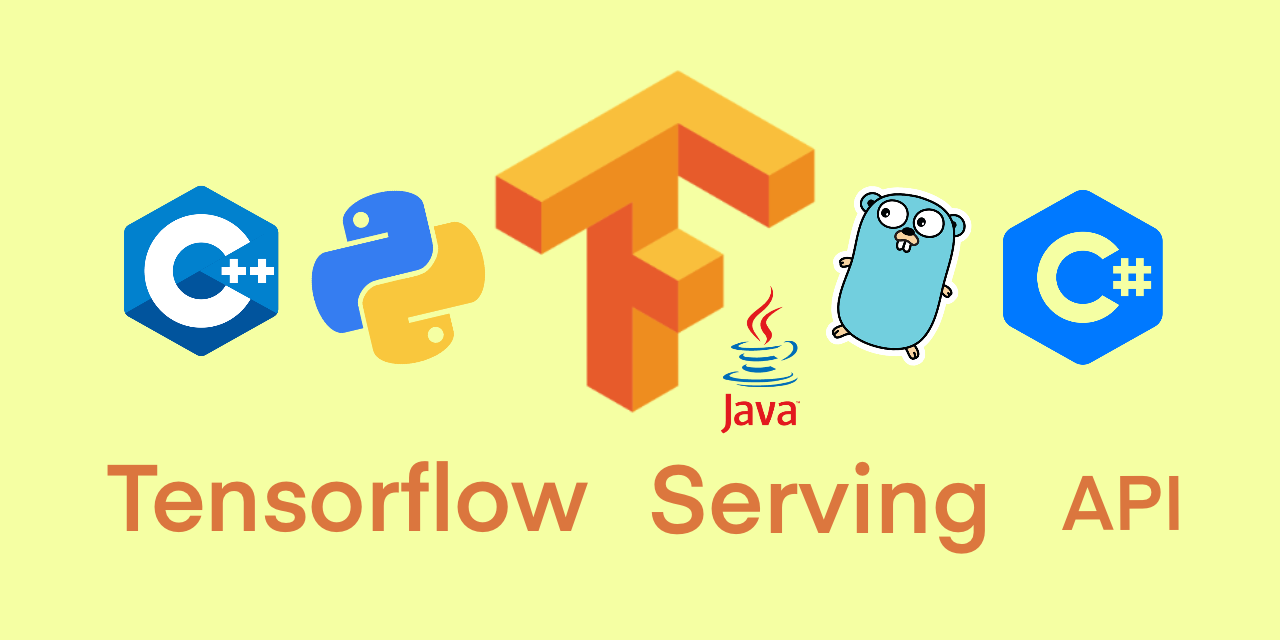
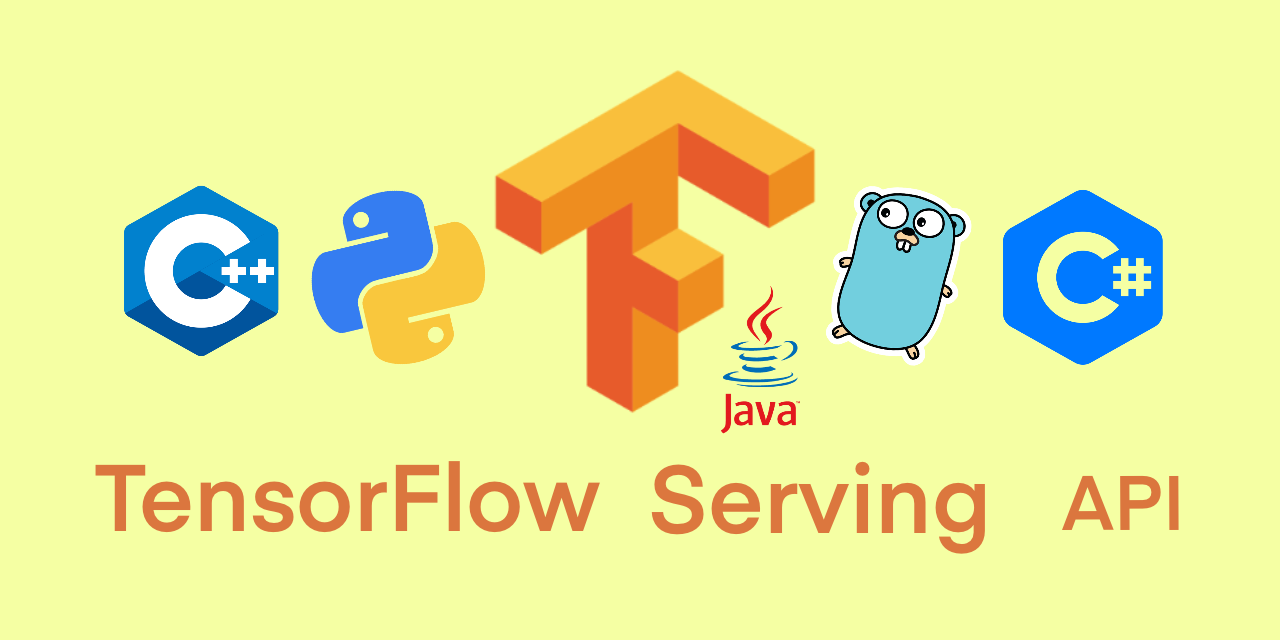
modify some details

Changed region(s): [[0.0625, 0.7188, 0.4688, 0.8438]]

diff --git a/java/src/main/java/com/github/alex/App.java b/java/src/main/java/com/github/alex/App.java
@@ -2,6 +2,7 @@
  * This Java source file was generated by the Gradle 'init' task.
  */
 package com.github.alex;
+
 import java.util.Arrays;
 import java.util.concurrent.TimeUnit;
 import com.google.protobuf.Int64Value;

diff --git a/golang/main.go b/golang/main.go
@@ -14,7 +14,7 @@ import (
 )
 
 var (
-	// Tensorflow serving grpc address.
+	// TensorFlow Serving grpc address.
 	address = "127.0.0.1:8500"
 )
 

diff --git a/golang/README.md b/golang/README.md
@@ -3,7 +3,7 @@
         width="150" height="200">
 </div>
 
-# Tensorflow Serving API for Golang
+# TensorFlow Serving API for Golang
 
 ## Prerequisites
 
@@ -150,7 +150,7 @@ Also you can use the `gen.sh` script to generate go files.
 
 3. If you encouter following `cycle import` error, you should delete the `logging.pb.go` file in `tensorflow_serving/core` dir and `prediction_log.pb.go` file in `tensorflow_serving/apis` dir.
 
-   ```shell
+    ```shell
     import cycle not allowed
     package github.com/alex/tensorflow-serving-api-go
         imports tensorflow_serving/apis

diff --git a/README.md b/README.md
@@ -2,7 +2,7 @@
     <img src="https://raw.githubusercontent.com/AlexanderJLiu/tensorflow-serving-api/master/images/tensorflow-serving-api.png">
 </div>
 
-# Tensorflow Serving API
+# TensorFlow Serving API
 
 The goal of this project is to generate `tensorflow serving api` for various programming language supported by [protocol buffer](https://developers.google.com/protocol-buffers/docs/tutorials) and [grpc](https://grpc.io/docs/languages/), like `go`, `java`, `c++`, `c#` and `python` etc.
 

diff --git a/python/README.md b/python/README.md
@@ -3,7 +3,7 @@
         width="200" height="200">
 </div>
 
-# Tensorflow Serving API for Python
+# TensorFlow Serving API for Python
 
 1. Because there are pre-generated python API of tensorflow serving, We don't have to generate it ourselves.
 2. Run the following command to install python package.

diff --git a/java/README.md b/java/README.md
@@ -3,7 +3,7 @@
         width="200" height="200">
 </div>
 
-# Tensorflow Serving API for Java
+# TensorFlow Serving API for Java
 
 ## Prerequisites
 
